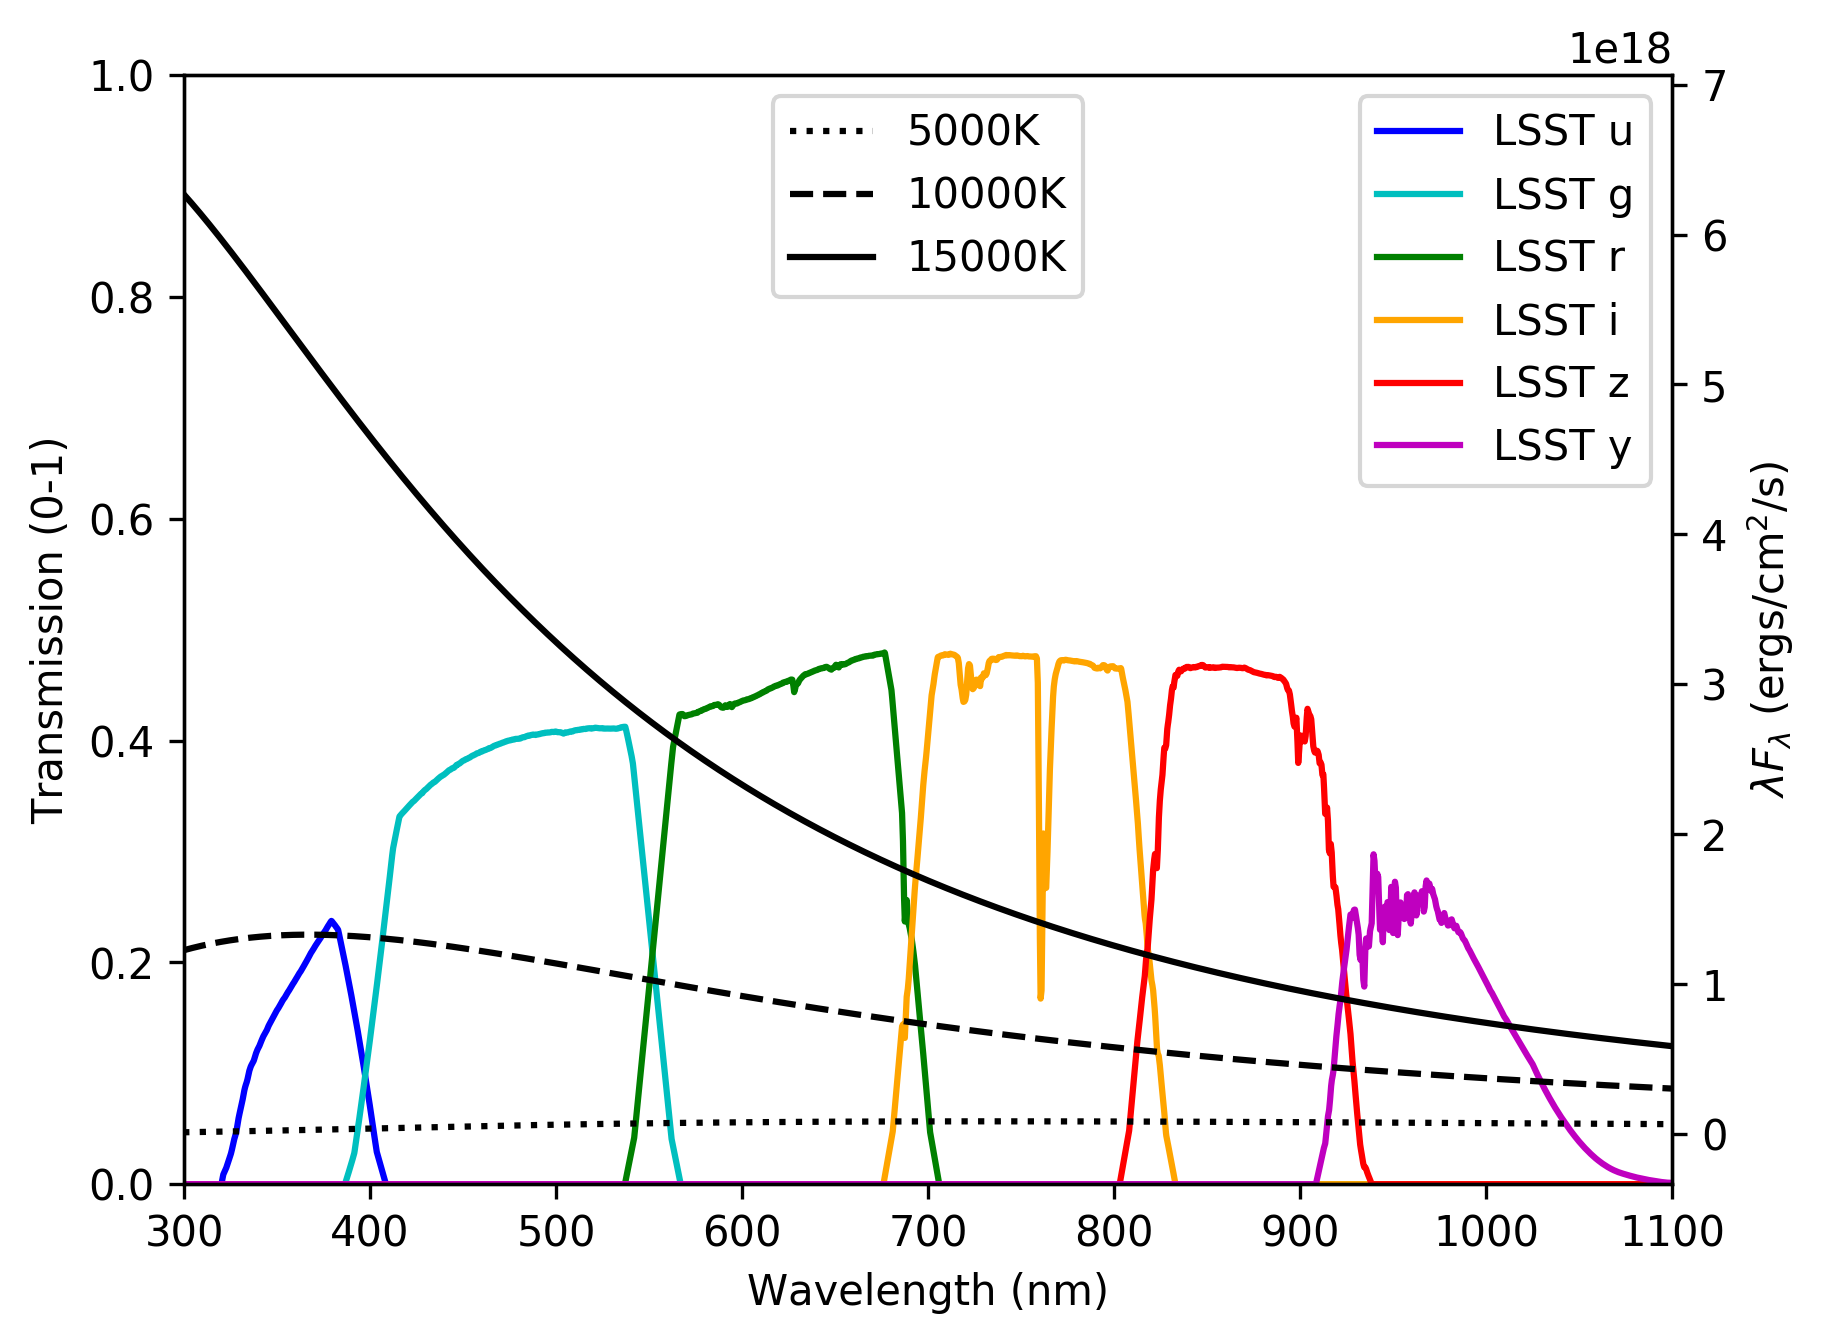
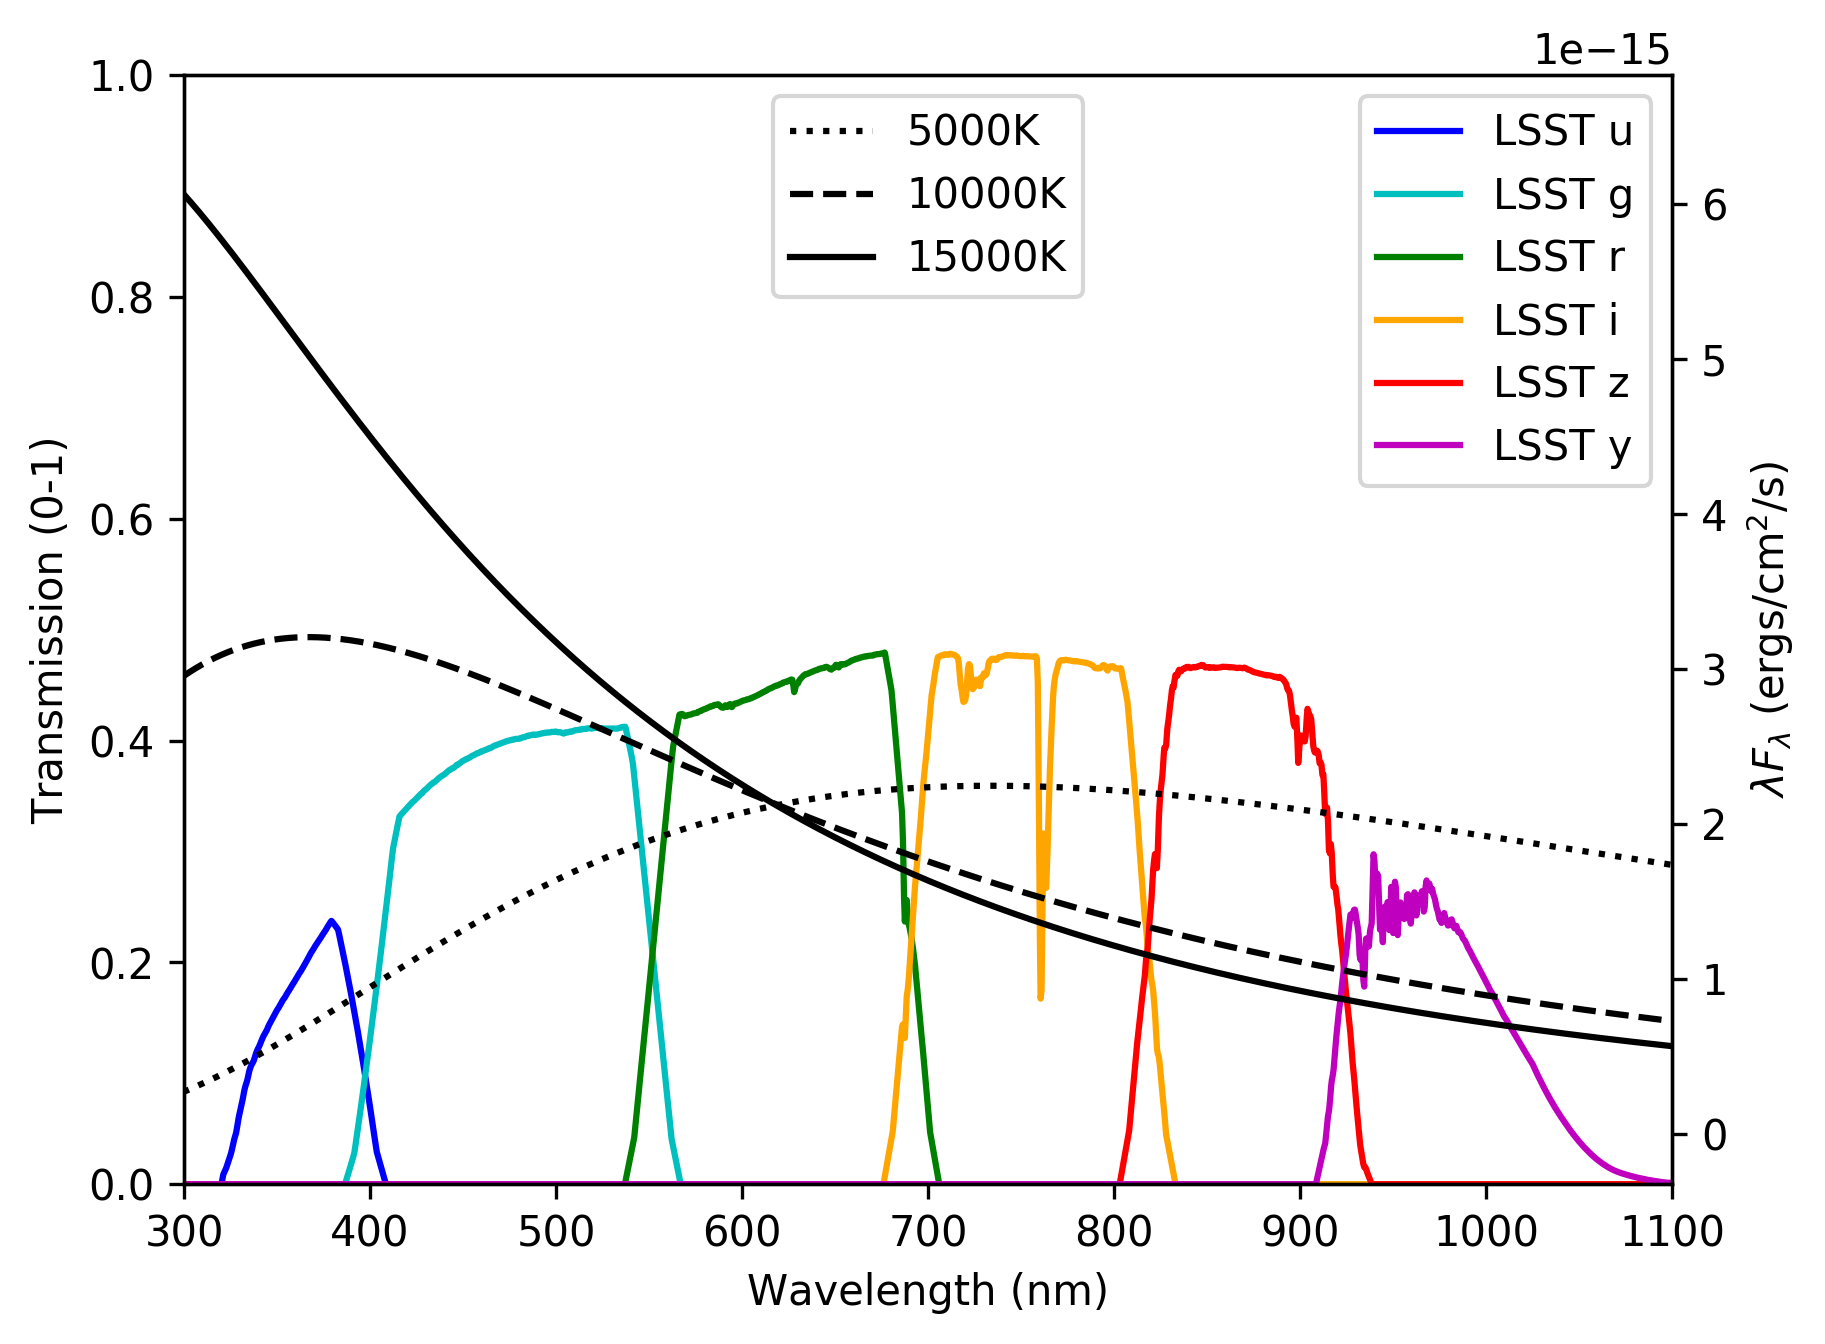
added SDSS scaling factor + weekly report wrapup

diff --git a/rubin_bb.py b/rubin_bb.py
@@ -39,9 +39,16 @@ def bb_mags(bb_temp, makeplot=False):
         ax1.legend()
 
     for j,temp in enumerate(bb_temp):
+        #Create SED object, set to blackbody at [temp] K.
         bb = Sed()
         bb.setSED(wave,flambda=make_bb(wave,temp))
 
+        #Rescale zero flux magnitude to SDSS standard
+        fluxNorm = bb.calcFluxNorm(24.80, lsst['r'])
+        # Next, apply this scaling factor to the Sed object.
+        bb.multiplyFluxNorm(fluxNorm)
+
+        #Calculate and save clr magnitudes and differences
         mags = {}
         diffs = {}
         print('{}K Magnitudes'.format(temp))
@@ -50,9 +57,9 @@ def bb_mags(bb_temp, makeplot=False):
             print('%s  %.2f' % (f, mags[f]))
         maglist = list(mags.values())
         for i in range(5):
-            print(filterlist[i]+'-'+filterlist[i+1]+': {0:.2f}'.format(np.abs(maglist[i] - maglist[i+1])))
-            diffs[str(filterlist[i]+'-'+filterlist[i+1])] = np.abs(maglist[i] - maglist[i+1])
-        
+            print(filterlist[i]+'-'+filterlist[i+1]+': {0:.2f}'.format(maglist[i] - maglist[i+1]))
+            diffs[str(filterlist[i]+'-'+filterlist[i+1])] = maglist[i] - maglist[i+1]
+
         if makeplot==True:    
            
             ax2.plot(bb.wavelen, bb.wavelen*bb.flambda, color='k', 

diff --git a/Weekly Reports/09_08_2021report.md b/Weekly Reports/09_08_2021report.md
@@ -8,19 +8,20 @@
 This paper discusses a procedure to infer the spectral energy distribution of a source via differential chromatic refraction (DCR), i.e. the wavelength-dependent shift of the source's pixel location within a specific passband, and use the DCR information to solve for the underlying images at specific wavelengths.
 
 They simulate 3 sets of 25 source that sample signal-to-noise ratio and color, each set at a different zenith and azimuthal angle. They generate 200 exposures and test subsets (5,15,50) of the exposures to evaluate recovery of DCR-corrected images. They show improved astrometric and photometric accuracy over coadditive methods that do not correct for DCR. 
+
 ### 1.2 Code Written
 
 Wrote a function (make_bb) to generate a blackbody SED in cgs units.
 
 Used throughputs and rubin_sim.photUtils packages to compute color magnitudes & differences (u-g, g-r, r-i, i-z, z-y) of 15000K, 10000K, and 5000K blackbodies via LSST bandpasses. Functionized to compute for input blackbody temperatures and added illustrative plotting.
 
-Link: 
+Link: https://github.com/RileyWClarke/Flarubin/blob/main/rubin_bb.py
 
 ## 2. Figures
 
 ![](https://github.com/RileyWClarke/Flarubin/blob/main/Figures/bb_passbands.png?raw=true)
 
-Figure 1:  LSST throughputs plotted on top of 15000K, 10000K, and 5000K blackbody SEDs. The left and right axes are uncoupled; the left axis corresponds to the throughput fraction of each LSST filter and the right axis corresponds to the spectral irradiance (?) of the blackbody.
+Figure 1:  LSST throughputs plotted on top of 15000K, 10000K, and 5000K blackbody SEDs. The left and right axes are uncoupled; the left axis corresponds to the throughput fraction of each LSST filter and the right axis corresponds to the spectral irradiance (?) of the blackbody. Flux magnitude is scaled to 24.80 in the r-band.
 
 Figure code: https://github.com/RileyWClarke/Flarubin/blob/main/rubin_bb.py
 
@@ -28,5 +29,8 @@ Figure code: https://github.com/RileyWClarke/Flarubin/blob/main/rubin_bb.py
 
 ### 3.1 Results
 
+We can now get some approximate flare colors in the Rubin bandpasses, for flares of different temperatures.
+
 ### 3.2 Goals
 
+In order to emulate Gordon and Weixiang's DCR metric analysis for AGNs, we need to be able to calculate DCR slopes (or just the DCR offset) in the u- and g-band. Weixiang was able to point us to a paper with some instructions on how to produce the slopes. With the DCR slopes we can follow the example and plot the effect of DCR on flare observations as a function of the flare temperature. 
